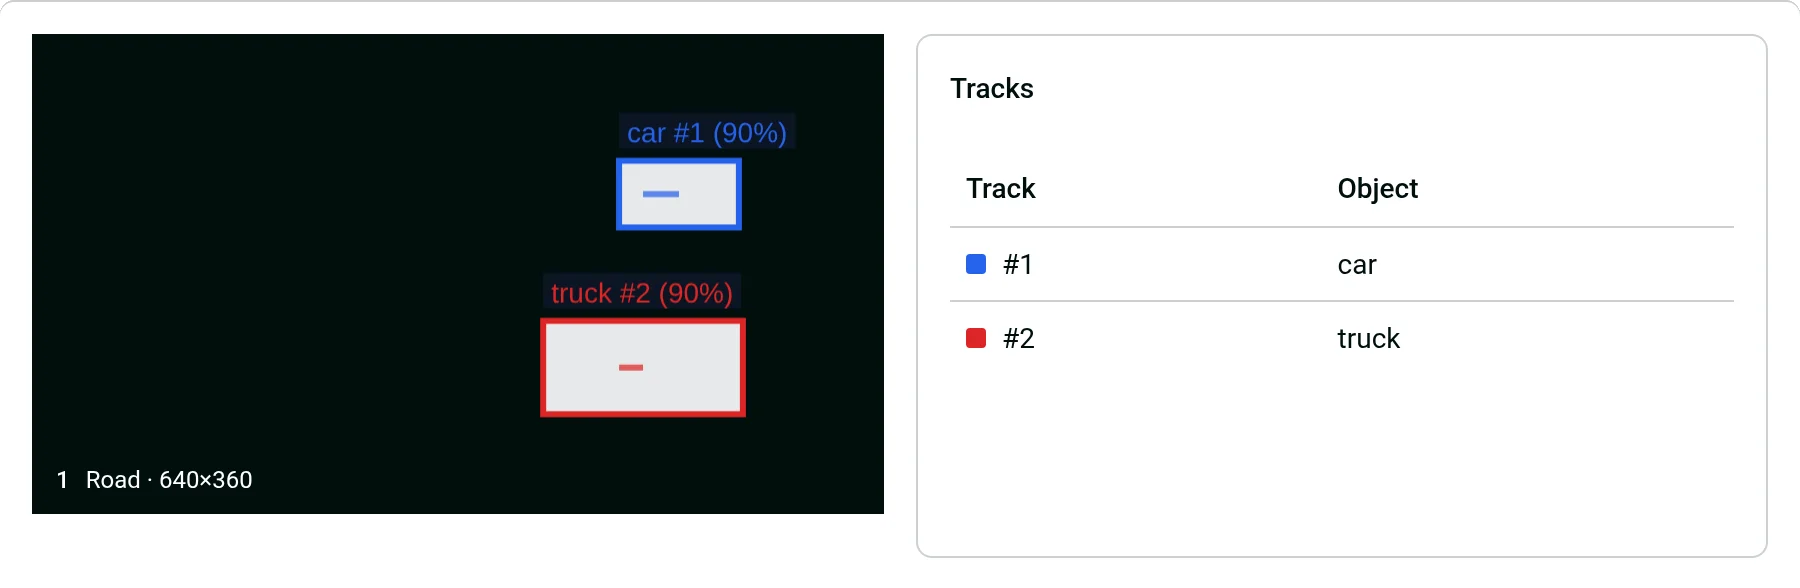
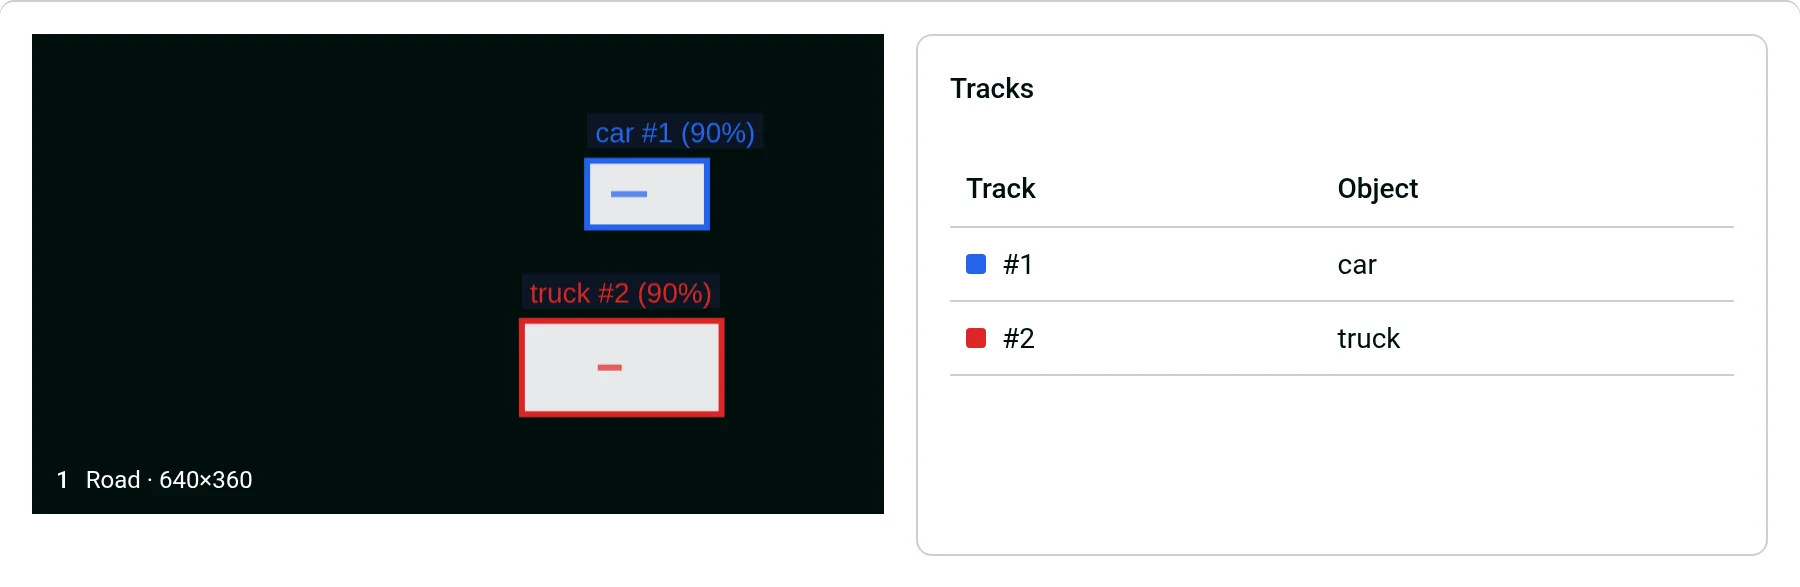
Showcase: the track colors list keeps four rows, in every browser

diff --git a/projects/showcase/src/app/examples/video-tile/track-colors-examples.spec.ts b/projects/showcase/src/app/examples/video-tile/track-colors-examples.spec.ts
@@ -20,7 +20,7 @@ describe('the track colors example', () => {
       await fixture.whenStable();
     };
     const rows = () =>
-      Array.from(element.querySelectorAll('tbody tr')).map((row) =>
+      Array.from(element.querySelectorAll('tbody tr:not(.filler)')).map((row) =>
         Array.from(row.querySelectorAll('td')).map((cell) => cell.textContent?.trim()),
       );
     return { element, show, rows };
@@ -28,13 +28,25 @@ describe('the track colors example', () => {
 
   it('lists the tracks of the frame the tile presents, by id', async () => {
     const { element, show, rows } = await render();
-    expect(element.querySelector('[neatNote]')?.textContent).toContain('Nothing tracked');
+    const note = element.querySelector('tbody td[neatNote]');
+    expect(note?.textContent).toContain('Nothing tracked');
+    expect(note?.getAttribute('colspan')).toBe('2');
 
     await show(0);
     const expected = [...roadTracks(0)]
       .sort((a, b) => a.id - b.id)
       .map(({ id, label }) => [`#${id}`, label]);
     expect(rows()).toEqual(expected);
+  });
+
+  it('always has four body rows, the tracks and then hidden fillers', async () => {
+    const { element, show } = await render();
+    const count = () => element.querySelectorAll('tbody tr').length;
+    const fillers = () => element.querySelectorAll('tbody tr.filler').length;
+    expect([count(), fillers()]).toEqual([4, 3]);
+    await show(0);
+    expect(count()).toBe(4);
+    expect(fillers()).toBe(4 - roadTracks(0).length);
   });
 
   it('gives each row a swatch in the color the tile drew its track in', async () => {
@@ -46,7 +58,9 @@ describe('the track colors example', () => {
 
     await show(0);
     expect(colorOf).toHaveBeenCalledWith('tracking', expect.objectContaining({ id: first.id }));
-    const swatches = Array.from(element.querySelectorAll<HTMLElement>('neat-swatch'));
+    const swatches = Array.from(
+      element.querySelectorAll<HTMLElement>('tbody tr:not(.filler) neat-swatch'),
+    );
     expect(swatches.map((swatch) => swatch.style.getPropertyValue('--swatch'))).toEqual([
       'rgb(1 2 3)',
     ]);

diff --git a/projects/showcase/src/app/examples/video-tile/4-track-colors.example.html b/projects/showcase/src/app/examples/video-tile/4-track-colors.example.html
@@ -9,32 +9,40 @@
     />
   </div>
   <neat-card class="tracks" title="Tracks">
-    @if (tracks().length === 0) {
-      <p neatNote>Nothing tracked in this frame.</p>
-    } @else {
-      <table neatTable aria-label="Tracks on screen">
-        <thead>
+    <table neatTable aria-label="Tracks on screen">
+      <thead>
+        <tr>
+          <th scope="col">Track</th>
+          <th scope="col">Object</th>
+        </tr>
+      </thead>
+      <tbody>
+        @for (track of tracks(); track track.id) {
           <tr>
-            <th scope="col">Track</th>
-            <th scope="col">Object</th>
+            <td>
+              <span class="track">
+                @if (tile.colorOf('tracking', track); as color) {
+                  <neat-swatch [color]="color" />
+                }
+                #{{ track.id }}
+              </span>
+            </td>
+            <td>{{ track.label }}</td>
           </tr>
-        </thead>
-        <tbody>
-          @for (track of tracks(); track track.id) {
-            <tr>
-              <td>
-                <span class="track">
-                  @if (tile.colorOf('tracking', track); as color) {
-                    <neat-swatch [color]="color" />
-                  }
-                  #{{ track.id }}
-                </span>
-              </td>
-              <td>{{ track.label }}</td>
-            </tr>
-          }
-        </tbody>
-      </table>
-    }
+        } @empty {
+          <tr>
+            <td colspan="2" neatNote>Nothing tracked in this frame.</td>
+          </tr>
+        }
+        @for (filler of fillers(); track filler) {
+          <tr class="filler">
+            <td>
+              <span class="track"><neat-swatch color="var(--muted)" />&nbsp;</span>
+            </td>
+            <td>&nbsp;</td>
+          </tr>
+        }
+      </tbody>
+    </table>
   </neat-card>
 </div>

diff --git a/projects/showcase/src/app/examples/video-tile/4-track-colors.example.ts b/projects/showcase/src/app/examples/video-tile/4-track-colors.example.ts
@@ -2,6 +2,7 @@ import {
   afterNextRender,
   ChangeDetectionStrategy,
   Component,
+  computed,
   DestroyRef,
   DOCUMENT,
   inject,
@@ -30,7 +31,7 @@ function sameTracks(a: readonly Track[], b: readonly Track[]): boolean {
  * template calls it. It reads signals, so a swatch shows as soon as the tile has drawn its track.
  *
  * The list comes from the tile's `frameListener`, so it follows the picture. It writes its signal
- * only when the tracks change. Watch a vehicle leave on the right: it comes back on the left as a
+ * only when the tracks change. Hidden rows fill it to four, so the card keeps its height. Watch a vehicle leave on the right: it comes back on the left as a
  * new track, in a color of its own.
  *
  * @animated
@@ -45,6 +46,10 @@ function sameTracks(a: readonly Track[], b: readonly Track[]): boolean {
 export class TrackColors {
   protected readonly road = new TrackSource();
   protected readonly tracks = signal<readonly Track[]>([], { equal: sameTracks });
+  /** Placeholder rows that bring the list to four, the road's four vehicles. */
+  protected readonly fillers = computed(() =>
+    Array.from({ length: Math.max(0, 4 - Math.max(1, this.tracks().length)) }, (_, i) => i),
+  );
   protected readonly listTracks = ({ messages }: NeatTileFrame): void => {
     const found = messages.find(({ message }) => message.type === 'tracking');
     const tracks = (found?.message.data as { tracks?: readonly Track[] } | undefined)?.tracks;

diff --git a/projects/showcase/src/app/examples/video-tile/track-colors.example.css b/projects/showcase/src/app/examples/video-tile/track-colors.example.css
@@ -19,15 +19,14 @@
 }
 
 /*
- * The list holds the height of its title, its header and four rows, the road's four vehicles, so it
- * never changes height as tracks come and go. A change of a fraction of a pixel moves the cards
- * below it, since the page's scroll anchoring corrects the scroll position in whole pixels only.
- *
- * 16.34375rem is what the card is with four rows, in the units the table lays them out in: the
- * card's border (2 x 1px, 0.125rem), its padding (2 x 1rem), its title (2rem) and the gap under it
- * (0.5rem), the table's header (2.5rem) and four rows of 2.3125rem (0.5rem padding above and below
- * a 1.25rem line, and a 1px rule), the last without its rule's other half (0.03125rem).
+ * The list always has four rows, the road's four vehicles: the tracks, then filler rows that keep
+ * their height, leave the accessibility tree and show nothing, not even the rule under a row (a
+ * collapsed table border is painted whatever the row's visibility). The card never changes height as tracks come
+ * and go, in any browser, with no height written down. A change of a fraction of a pixel would move
+ * the cards below it, since the page's scroll anchoring corrects the scroll position in whole
+ * pixels only. With more than four tracks the table simply grows.
  */
-.tracks {
-  min-height: 16.34375rem;
+.filler {
+  visibility: hidden;
+  border-color: transparent;
 }

diff --git a/docs/components/video-tile.md b/docs/components/video-tile.md
@@ -824,7 +824,7 @@ A list beside the tile names the tracks on screen, each with a swatch in its col
 
 The tile's `colorOf` gives the color its overlay draws an item in: here a track, by its id. The template calls it. It reads signals, so a swatch shows as soon as the tile has drawn its track.
 
-The list comes from the tile's `frameListener`, so it follows the picture. It writes its signal only when the tracks change. Watch a vehicle leave on the right: it comes back on the left as a new track, in a color of its own.
+The list comes from the tile's `frameListener`, so it follows the picture. It writes its signal only when the tracks change. Hidden rows fill it to four, so the card keeps its height. Watch a vehicle leave on the right: it comes back on the left as a new track, in a color of its own.
 
 <picture>
 <source media="(prefers-reduced-motion: reduce) and (prefers-color-scheme: dark)" srcset="../images/video-tile/track-colors.dark.webp">
@@ -843,6 +843,7 @@ import {
   afterNextRender,
   ChangeDetectionStrategy,
   Component,
+  computed,
   DestroyRef,
   DOCUMENT,
   inject,
@@ -874,6 +875,10 @@ function sameTracks(a: readonly Track[], b: readonly Track[]): boolean {
 export class TrackColors {
   protected readonly road = new TrackSource();
   protected readonly tracks = signal<readonly Track[]>([], { equal: sameTracks });
+  /** Placeholder rows that bring the list to four, the road's four vehicles. */
+  protected readonly fillers = computed(() =>
+    Array.from({ length: Math.max(0, 4 - Math.max(1, this.tracks().length)) }, (_, i) => i),
+  );
   protected readonly listTracks = ({ messages }: NeatTileFrame): void => {
     const found = messages.find(({ message }) => message.type === 'tracking');
     const tracks = (found?.message.data as { tracks?: readonly Track[] } | undefined)?.tracks;
@@ -903,33 +908,41 @@ export class TrackColors {
     />
   </div>
   <neat-card class="tracks" title="Tracks">
-    @if (tracks().length === 0) {
-      <p neatNote>Nothing tracked in this frame.</p>
-    } @else {
-      <table neatTable aria-label="Tracks on screen">
-        <thead>
+    <table neatTable aria-label="Tracks on screen">
+      <thead>
+        <tr>
+          <th scope="col">Track</th>
+          <th scope="col">Object</th>
+        </tr>
+      </thead>
+      <tbody>
+        @for (track of tracks(); track track.id) {
           <tr>
-            <th scope="col">Track</th>
-            <th scope="col">Object</th>
+            <td>
+              <span class="track">
+                @if (tile.colorOf('tracking', track); as color) {
+                  <neat-swatch [color]="color" />
+                }
+                #{{ track.id }}
+              </span>
+            </td>
+            <td>{{ track.label }}</td>
           </tr>
-        </thead>
-        <tbody>
-          @for (track of tracks(); track track.id) {
-            <tr>
-              <td>
-                <span class="track">
-                  @if (tile.colorOf('tracking', track); as color) {
-                    <neat-swatch [color]="color" />
-                  }
-                  #{{ track.id }}
-                </span>
-              </td>
-              <td>{{ track.label }}</td>
-            </tr>
-          }
-        </tbody>
-      </table>
-    }
+        } @empty {
+          <tr>
+            <td colspan="2" neatNote>Nothing tracked in this frame.</td>
+          </tr>
+        }
+        @for (filler of fillers(); track filler) {
+          <tr class="filler">
+            <td>
+              <span class="track"><neat-swatch color="var(--muted)" />&nbsp;</span>
+            </td>
+            <td>&nbsp;</td>
+          </tr>
+        }
+      </tbody>
+    </table>
   </neat-card>
 </div>
 ```
@@ -1082,17 +1095,16 @@ export abstract class CanvasSource implements NeatTileSource {
 }
 
 /*
- * The list holds the height of its title, its header and four rows, the road's four vehicles, so it
- * never changes height as tracks come and go. A change of a fraction of a pixel moves the cards
- * below it, since the page's scroll anchoring corrects the scroll position in whole pixels only.
- *
- * 16.34375rem is what the card is with four rows, in the units the table lays them out in: the
- * card's border (2 x 1px, 0.125rem), its padding (2 x 1rem), its title (2rem) and the gap under it
- * (0.5rem), the table's header (2.5rem) and four rows of 2.3125rem (0.5rem padding above and below
- * a 1.25rem line, and a 1px rule), the last without its rule's other half (0.03125rem).
+ * The list always has four rows, the road's four vehicles: the tracks, then filler rows that keep
+ * their height, leave the accessibility tree and show nothing, not even the rule under a row (a
+ * collapsed table border is painted whatever the row's visibility). The card never changes height as tracks come
+ * and go, in any browser, with no height written down. A change of a fraction of a pixel would move
+ * the cards below it, since the page's scroll anchoring corrects the scroll position in whole
+ * pixels only. With more than four tracks the table simply grows.
  */
-.tracks {
-  min-height: 16.34375rem;
+.filler {
+  visibility: hidden;
+  border-color: transparent;
 }
 ```
 
